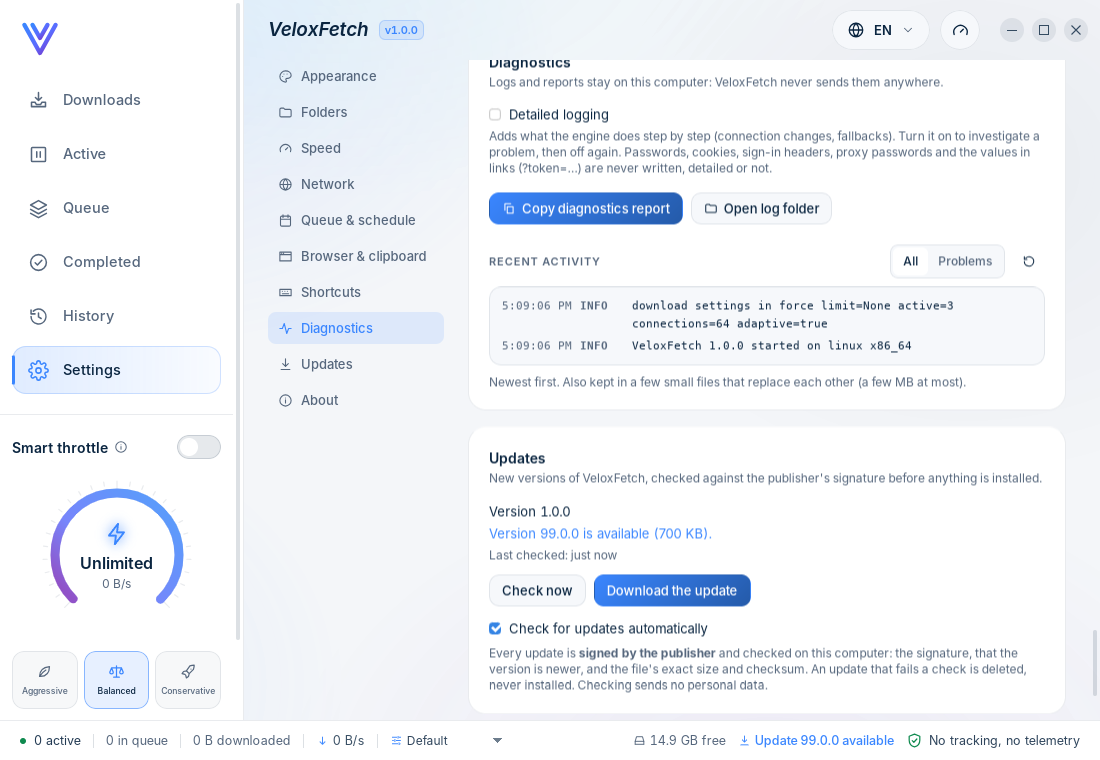
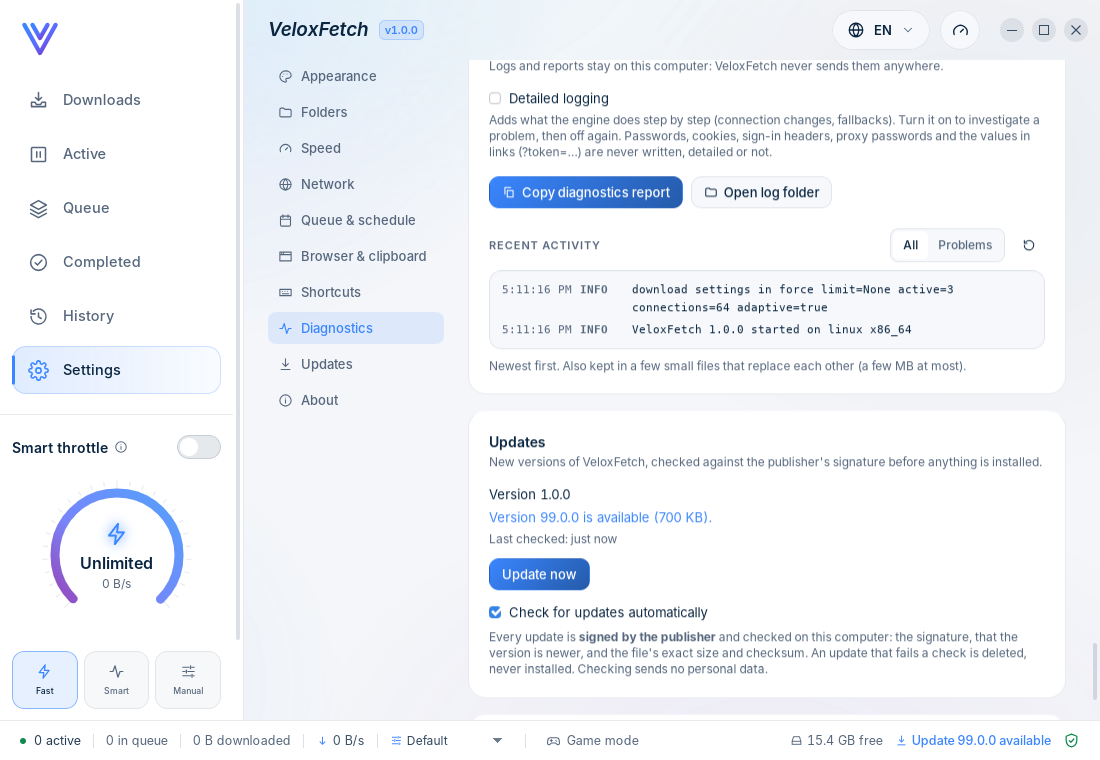
feat: one-click "Update now" (download then install in one action)
Settings > Updates now shows a single button that flips: "Check now" until a
newer signed version is found at the update URL, then "Update now". One click of
Update now downloads the verified package and then installs it — no separate
download step, no file downloaded by hand, no web page opened.

Install stays silent where it safely can be (the AppImage and the portable copy
already replace themselves and relaunch); on Windows and the .deb / .rpm the one
click hands off to the system installer, which asks for permission, as installing
system-wide must. There is no unattended auto-install mode; the automatic *check*
setting is unchanged.

This is a UI/flow change only. The Phase 19 signed-update engine (Ed25519,
anti-rollback, no tauri-plugin-updater) is untouched: how updates are fetched,
verified and kept is exactly as before. The two old buttons (Download, Install)
are replaced by the one combined action; the update-now handler downloads (unless
a verified package is already waiting) then installs, and shows the error without
installing if the download fails.

- UpdateSettings.tsx: canUpdateNow + updateNow(); new upd.updateNow in 8 locales
- docs/auto-update.md, PRIVACY.md, overview change-log row
- desktop-updates.mjs rewritten for the one click (16 checks); its own screenshot

Verified: vitest 190/190 (incl. locale parity), e2e desktop-updates 16/16 and
desktop-i18n 13/13 (Settings > Updates in all 8 languages, no English leak,
[…]

diff --git a/apps/desktop/src/components/UpdateSettings.tsx b/apps/desktop/src/components/UpdateSettings.tsx
@@ -72,11 +72,21 @@ export function UpdateSettings() {
     }
   };
   const check = () => run(async () => store.dispatch({ type: "update", update: await api.checkForUpdates() }));
-  const download = () => run(async () => store.dispatch({ type: "update", update: await api.downloadUpdate() }));
-  const install = () =>
+  // One click: download the verified package (unless one is already waiting), then install it. Installing is
+  // silent where it can be (the AppImage and the portable copy replace themselves and relaunch); on Windows and
+  // the .deb / .rpm it hands off to the system installer, which asks for permission. No file is ever downloaded
+  // by hand and no web page is opened. If the download fails, run() shows the error and nothing is installed.
+  const updateNow = () =>
     run(async () => {
-      const how = await api.installUpdate();
-      if (how === "opened") setOpened(true);
+      let status = u;
+      if (status?.phase !== "ready") {
+        status = await api.downloadUpdate();
+        store.dispatch({ type: "update", update: status });
+      }
+      if (status?.phase === "ready") {
+        const how = await api.installUpdate();
+        if (how === "opened") setOpened(true);
+      }
     });
   const toggle = async (enabled: boolean) => {
     const next = await act(() => api.setUpdateAuto(enabled), enabled ? t("upd.autoOn") : t("upd.autoOff"));
@@ -85,6 +95,9 @@ export function UpdateSettings() {
 
   const tone = !u ? "text-dim" : u.phase === "failed" || u.error ? "text-bad" : u.phase === "available" || u.phase === "ready" ? "text-accent" : "text-dim";
   const working = busy || u?.phase === "checking" || u?.phase === "downloading";
+  // A newer version is in hand to install now: available to download (but not the portable "page" kind), or
+  // already downloaded and verified. This is when the button is "Update now" instead of "Check now".
+  const canUpdateNow = !!u?.supported && ((u.phase === "available" && u.install !== "page") || u.phase === "ready" || u.phase === "downloading");
   return (
     <Panel title={t("upd.title")} hint={t("upd.hint")}>
       <p className="num text-[13px]" data-testid="update-current">
@@ -107,19 +120,16 @@ export function UpdateSettings() {
         </p>
       )}
       <div className="mt-3 flex flex-wrap gap-2">
-        {u?.supported && u.phase !== "ready" && (
+        {/* The button flips: "Check now" until a newer version is found, then a single "Update now" that does the
+            whole download-and-install. ("Open the release page" only for the portable copy, which replaces nothing.) */}
+        {u?.supported && !canUpdateNow && (
           <button className="btn" data-testid="update-check" disabled={working} onClick={() => void check()}>
             {u.phase === "checking" ? t("upd.checking") : t("upd.checkNow")}
           </button>
         )}
-        {u?.supported && u.phase === "available" && u.install !== "page" && (
-          <button className="btn btn-primary" data-testid="update-download" disabled={working} onClick={() => void download()}>
-            {t("upd.download")}
-          </button>
-        )}
-        {u?.supported && u.phase === "ready" && (
-          <button className="btn btn-primary" data-testid="update-install" disabled={working} onClick={() => void install()}>
-            {u.install === "restart" ? t("upd.installRestart") : t("upd.installPackage")}
+        {canUpdateNow && (
+          <button className="btn btn-primary" data-testid="update-now" disabled={working} onClick={() => void updateNow()}>
+            {t("upd.updateNow")}
           </button>
         )}
         {u && u.releasePage && (!u.supported || u.phase === "elsewhere" || (u.phase === "available" && u.install === "page")) && (

diff --git a/VELOXFETCH-OVERVIEW.md b/VELOXFETCH-OVERVIEW.md
@@ -908,6 +908,7 @@ was green (Rust, vitest, policy, e2e on Linux).
 
 | Date | Branch (commit) | Kind | What changed | Doc |
 |---|---|---|---|---|
+| 2026-10-18 | `feat_update_now` | Feature | Settings › Updates now shows **one button that flips**: **Check now** until a newer signed version is found at the update URL, then **Update now**. A single click of Update now does the whole thing — downloads the verified package and then installs it — with no separate download step, no file downloaded by hand and no web page opened. Install is silent where it safely can be (the AppImage and the portable copy replace themselves and relaunch); on Windows and the `.deb` / `.rpm` the one click hands off to the system installer, which asks for permission, as installing system-wide must. Built on the existing Phase 19 signed-update engine (Ed25519, anti-rollback, `tauri-plugin-updater` still banned): no change to how updates are fetched, verified or kept, only the button and the one-click flow. No unattended auto-install mode (the automatic *check* setting is unchanged). 8 languages (`upd.updateNow`). `desktop-updates.mjs` rewritten for the one click (16 checks); `desktop-i18n.mjs` 13/13 across all languages. v2.0.0 only. | `docs/auto-update.md` |
 | 2026-10-18 | `strip_release_symbols` | Build | Release binaries are stripped of their debug symbols and symbol table (`strip = "symbols"` on `[profile.release]`). The Tauri bundler already stripped the app; this covers the whole workspace, so the `velox` CLI and `velox-native-host` ship stripped too: `velox` 13.66 → 7.76 MB (−43 %), the native host 6.30 → 2.94 MB (−53 %), confirmed `stripped` by `file`. Less debug metadata shipped to users and smaller installers; nothing about behaviour changes. Both stripped binaries smoke-tested (`velox --version`; the native host's browser-only guard). v2.0.0 only. | `docs/release-process.md`, `docs/security.md` |
 | 2026-10-17 | `port_firefox_data_consent_v2` (from `main`, `fix_firefox_data_consent`) | Fix | Brought to v2.0.0: addons.mozilla.org refused the extension's zip: Firefox's `data_collection_permissions` was missing. The Firefox manifest now declares what it hands to the app through native messaging (browsing activity, website content, authentication information: the link, the page, and the cookies when Send cookies is on), shown at install; it needs Firefox 140+ (Android 142+). Mozilla's validator: 0 errors, 0 warnings. Loaded in a real Firefox 153 ESR: installs, reaches the helper. Test +1. | `docs/store-publishing.md` |
 | 2026-10-17 | `feat_store_extension` | Feature | The extension is published in the Chrome Web Store (`keobnkoppcchnbpmmfodidkcedglbhnn`). The deb / rpm packages and the Windows setup point Chrome, Edge and Brave at it for every user (Chromium's external-extension pointer; removed on uninstall). The browser adds it by itself: a real Brave did, switched on. The first start and Install extension open its store page, never a folder or the extensions page. Chrome Web Store badges in Settings > Browser, texts in 8 languages. The store id is trusted by the helper, and older registrations are brought up to date at start. Firefox keeps the temporary add-on until its review ends. | `docs/store-extension.md` |

diff --git a/docs/auto-update.md b/docs/auto-update.md
@@ -45,12 +45,18 @@ the `.deb`, else `rpm` for the `.rpm`. macOS: a program inside `*.app/Contents/M
 ### What the user sees
 
 * **Settings > Updates:** the installed version, the state (up to date, a version available with its size, the
-  download's progress, ready, or why a check failed), **Check now**, **Download the update**, **Install and
-  restart** / **Open the installer**, **Open the release page**, **Check for updates automatically** (on by
-  default), and when the last check happened.
+  download's progress, ready, or why a check failed), and a **single button that flips**: **Check now** until a
+  newer version is found, then **Update now**. One click of **Update now** does the whole thing — it downloads the
+  verified package and then installs it, with no separate download step, no file downloaded by hand and no web page
+  opened. Also **Check for updates automatically** (on by default) and when the last check happened. (**Open the
+  release page** appears only for the portable copy, which replaces nothing.)
+* **How the install runs:** silent where it safely can be — the Linux AppImage and the portable copy replace
+  themselves and relaunch with no prompt; on Windows and the `.deb` / `.rpm` the one click hands off to the system
+  installer, which asks for permission (UAC / the administrator password), as installing system-wide must.
 * **Status bar:** "Up to date" (wide windows) or "Update x.y.z available / ready", which opens Settings > Updates.
-* The app checks 60 seconds after start, then every 12 hours, when the setting is on. It **never downloads or
-  installs on its own**: the user presses the button.
+* The app checks 60 seconds after start, then every 12 hours, when the setting is on. It **checks** on its own but
+  **never downloads or installs on its own**: downloading and installing happen only on the one **Update now**
+  click (there is no unattended auto-install mode).
 
 Error texts never pass on anything from the network: each is chosen by a short code (`network`, `signature`,
 `malformed`, `stale`, `corrupt`, `disk`, `install`).

diff --git a/docs/PRIVACY.md b/docs/PRIVACY.md
@@ -36,7 +36,7 @@ The extension only sends links to the VeloxFetch desktop application running on 
 
 * **What is sent:** to check for a new version, the app downloads two small public files from the project's GitHub release
   page (`latest.json` and its signature), 60 seconds after it starts and then every 12 hours, and the new version's package
-  only when you press **Download the update**. The request names only the product and its version (`VeloxFetch/1.0.0`):
+  only when you press **Update now**. The request names only the product and its version (`VeloxFetch/1.0.0`):
   no cookie, no account, no identifier, nothing about your downloads. GitHub sees your IP address, as for any visit.
 * **Where it goes:** GitHub (`github.com/IlyesBs/VeloxFetch-releases` and GitHub's download servers), through your
   proxy if you set one.
